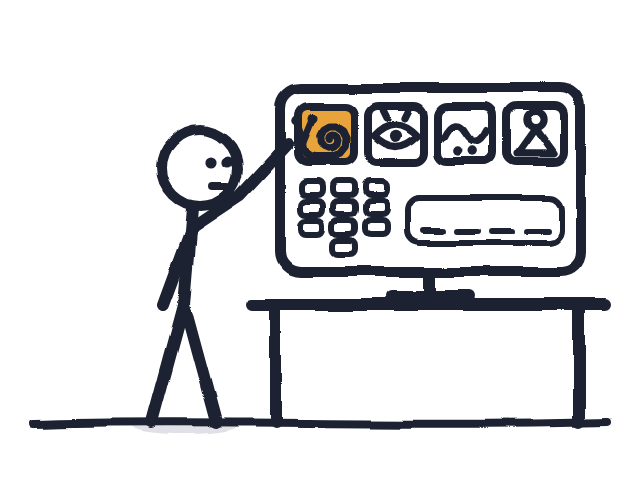
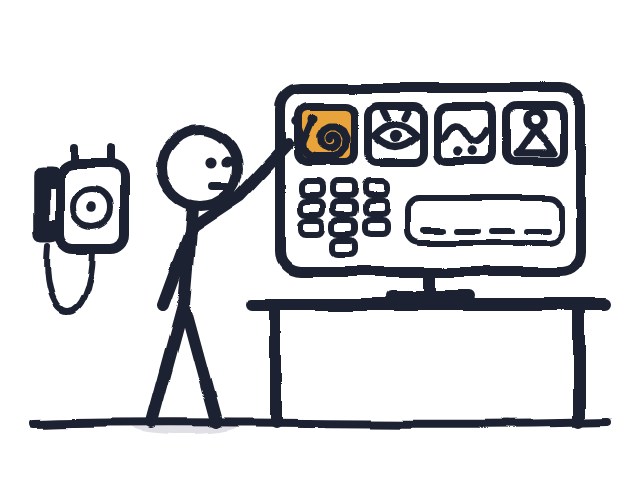
art(ui): polish the Wi-Fi pilot's candidate A after the critic
- frame 1: the house phone on the wall beside the computer (the security room has one),
  its receiver hanging at its side;
- frame 3: a thin wall edge, so the partner reads as a second player in another room;
- frame 4: a small gag in the payoff: a party guest (a party hat) beside the figure is at
  once nose-deep in a phone that just lit up.
The review page marks A as recommended and says what changed.

Changed region(s): [[0.0312, 0.2812, 0.2188, 0.6562]]

diff --git a/pages/card-art/round-4/wifi/wifi.html b/pages/card-art/round-4/wifi/wifi.html
@@ -49,8 +49,8 @@ p { margin: 0; }
   </header>
 
   <section class="set">
-    <div class="set-h"><h2>A · Чотири кадри</h2></div>
-    <p class="muted">Комп'ютер показує пароль із гліфів; по домашньому телефону описуєш гліф; напарник у бібліотеці знаходить його в книзі й називає цифру; вводиш — Wi-Fi є. Гег: фігура зображає «равлика з ріжками», хоча на тому кінці її не видно.</p>
+    <div class="set-h"><h2>A · Чотири кадри</h2><span class="rec">Раджу</span></div>
+    <p class="muted">Комп'ютер показує пароль із гліфів; по домашньому телефону описуєш гліф; напарник у бібліотеці знаходить його в книзі й називає цифру; вводиш — Wi-Fi є. Гег: фігура зображає «равлика з ріжками», хоча на тому кінці її не видно; у фіналі гість у святковому ковпаку вмить пірнає в телефон. Критик: A можна відвантажувати; після його зауважень у кадрі 1 з'явився телефон на стіні, у кадрі 3 — край стіни (інша кімната, інший гравець), у кадрі 4 — гість.</p>
     <div class="row">
       <img src="a/wifi-1.png" alt="A, кадр 1">
       <img src="a/wifi-2.png" alt="A, кадр 2">
